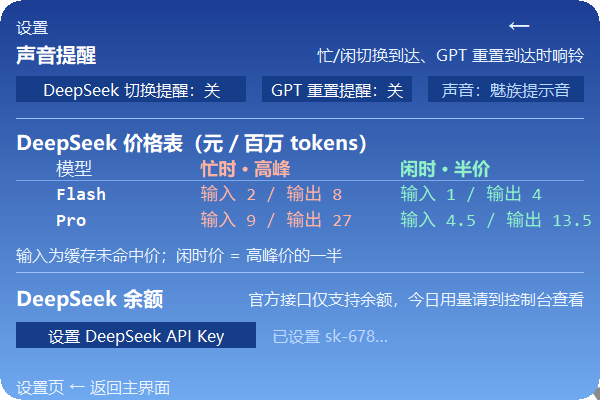
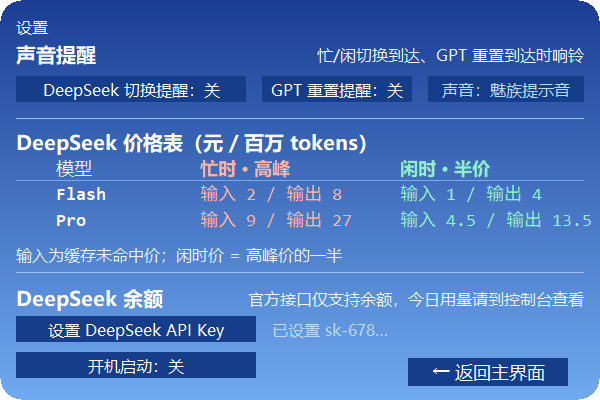
feat: autostart option, back button bottom-right, packaged exe launcher, smaller week-reset text

diff --git a/deepseek_chatgpt_timer.py b/deepseek_chatgpt_timer.py
@@ -57,7 +57,11 @@ try:
 except Exception:
     winsound = None
 
-APP_DIR = os.path.dirname(os.path.abspath(__file__))
+# 打包为 exe 时 __file__ 指向临时解压目录，资源目录应为 exe 所在目录
+if getattr(sys, "frozen", False):
+    APP_DIR = os.path.dirname(os.path.abspath(sys.executable))
+else:
+    APP_DIR = os.path.dirname(os.path.abspath(__file__))
 CONFIG_PATH = os.path.join(APP_DIR, "config.json")
 
 # ---------------- 界面参数（物理像素设计尺寸） ----------------
@@ -298,6 +302,52 @@ def fmt_week_until(td) -> str:
     return f"{d}天 {h:02d}:{m:02d}" if d > 0 else f"{h:02d}:{m:02d}"
 
 
+RUN_KEY = r"Software\Microsoft\Windows\CurrentVersion\Run"
+RUN_NAME = "发条AI时段小组件"
+
+
+def _autostart_command() -> str:
+    """开机启动命令行：exe 直接注册自身；源码运行注册 pythonw + 脚本。"""
+    if getattr(sys, "frozen", False):
+        return f'"{sys.executable}"'
+    exe = sys.executable
+    if exe.lower().endswith("python.exe"):   # 换 pythonw 避免开机弹控制台
+        w = os.path.join(os.path.dirname(exe), "pythonw.exe")
+        if os.path.exists(w):
+            exe = w
+    script = os.path.join(APP_DIR, "deepseek_chatgpt_timer.py")
+    return f'"{exe}" "{script}"'
+
+
+def _autostart_enabled() -> bool:
+    try:
+        import winreg
+        with winreg.OpenKey(winreg.HKEY_CURRENT_USER, RUN_KEY) as k:
+            winreg.QueryValueEx(k, RUN_NAME)
+            return True
+    except FileNotFoundError:
+        return False
+    except Exception:
+        return False
+
+
+def _set_autostart(enabled: bool):
+    try:
+        import winreg
+        with winreg.OpenKey(winreg.HKEY_CURRENT_USER, RUN_KEY, 0,
+                            winreg.KEY_SET_VALUE) as k:
+            if enabled:
+                winreg.SetValueEx(k, RUN_NAME, 0, winreg.REG_SZ,
+                                  _autostart_command())
+            else:
+                try:
+                    winreg.DeleteValue(k, RUN_NAME)
+                except FileNotFoundError:
+                    pass
+    except Exception:
+        pass
+
+
 def _activate_existing_instance() -> bool:
     """已有实例运行时：显示并置前其窗口，返回 True（新实例应退出）。"""
     try:
@@ -532,26 +582,27 @@ class Widget(tk.Tk):
         self.gpt_bar_fill = cv.create_rectangle(PAD, 250, PAD + 2, 258,
                                                 fill=ACC_C, outline="")
         # 同步按钮（时间 + 日期）+ 右侧一周重置信息（同右对齐到 R）
-        self.btn_sync = cv.create_rectangle(PAD, 266, PAD + 136, 288,
+        self.btn_sync = cv.create_rectangle(PAD, 288, PAD + 136, 310,
                                             fill=BTN_BG, outline="", tags="sync")
-        cv.create_text(PAD + 68, 277, text="同步重置时间", fill=FG_W,
+        cv.create_text(PAD + 68, 299, text="同步重置时间", fill=FG_W,
                        font=(FONT, 9), tags="sync")
         cv.tag_bind("sync", "<Button-1>", lambda e: self.sync_reset_time())
         cv.tag_bind("sync", "<Enter>", lambda e: cv.itemconfig(self.btn_sync, fill=BTN_HOV))
         cv.tag_bind("sync", "<Leave>", lambda e: cv.itemconfig(self.btn_sync, fill=BTN_BG))
-        self.btn_week = cv.create_rectangle(PAD + 144, 266, PAD + 294, 288,
+        self.btn_week = cv.create_rectangle(PAD + 144, 288, PAD + 294, 310,
                                             fill=BTN_BG, outline="", tags="week_sync")
-        cv.create_text(PAD + 219, 277, text="同步重置日期", fill=FG_W,
+        cv.create_text(PAD + 219, 299, text="同步重置日期", fill=FG_W,
                        font=(FONT, 9), tags="week_sync")
         cv.tag_bind("week_sync", "<Button-1>", lambda e: self.sync_reset_date())
         cv.tag_bind("week_sync", "<Enter>",
                     lambda e: cv.itemconfig(self.btn_week, fill=BTN_HOV))
         cv.tag_bind("week_sync", "<Leave>",
                     lambda e: cv.itemconfig(self.btn_week, fill=BTN_BG))
-        self.gpt_week_info = cv.create_text(R, 277, text="", anchor="e",
-                                            fill=FG_W, font=(MONO, 12, "bold"))
+        # 一周重置信息：字号小于“剩”，宽度与上面“剩 xx:xx:xx”接近
+        self.gpt_week_info = cv.create_text(R, 299, text="", anchor="e",
+                                            fill=FG_W, font=(MONO, 10, "bold"))
         # 按钮提示语（按钮下一行）
-        cv.create_text(PAD, 302, text="提示：同步重置时间后自动按 5 小时续算；同步重置日期后自动按 7 天续算",
+        cv.create_text(PAD, 326, text="提示：同步重置时间后自动按 5 小时续算；同步重置日期后自动按 7 天续算",
                        anchor="w", fill=FG_DIM, font=(FONT, 8))
 
         # 底部：提示 + 右下角设置（图标与文字同一行、整体右对齐不出界）
@@ -587,16 +638,9 @@ class Widget(tk.Tk):
         cv.create_image(0, 0, image=self._bg_img, anchor="nw")
         R = DESIGN_W - PAD
 
-        # 标题栏：左"设置"，右上 ← 后退返回主界面
+        # 标题栏：左"设置"
         cv.create_text(PAD, 26, text="设置", anchor="w",
                        fill=FG_DIM, font=(FONT, 8))
-        cv.create_text(R - 40, 26, text="  ←  ", anchor="e", fill=FG_DIM,
-                       font=(FONT, 11), tags="close_set")
-        cv.tag_bind("close_set", "<Button-1>", lambda e: self._close_settings())
-        cv.tag_bind("close_set", "<Enter>",
-                    lambda e: cv.itemconfig("close_set", fill=FG_W))
-        cv.tag_bind("close_set", "<Leave>",
-                    lambda e: cv.itemconfig("close_set", fill=FG_DIM))
 
         # ---- 1) 声音提醒 ----
         cv.create_text(PAD, 54, text="声音提醒", anchor="w",
@@ -643,13 +687,25 @@ class Widget(tk.Tk):
                        fill=FG_W, font=(FONT, 10, "bold"))
         cv.create_text(R, 298, text="官方接口仅支持余额，今日用量请到控制台查看",
                        anchor="e", fill=FG_DIM, font=(FONT, 8))
-        self.set_dskey = self._mk_btn(cv, PAD, 322, 240, "set_dskey", "btn")
-        self.dskey_state = cv.create_text(PAD + 256, 335, text="", anchor="w",
+        self.set_dskey = self._mk_btn(cv, PAD, 316, 240, "set_dskey", "btn")
+        self.dskey_state = cv.create_text(PAD + 256, 329, text="", anchor="w",
                                           fill=ACC_C, font=(FONT, 8))
 
-        # ---- 底部 ----
-        cv.create_text(PAD, 386, text="设置页 ← 返回主界面",
-                       anchor="w", fill=FG_DIM, font=(FONT, 8))
+        # ---- 4) 开机启动 ----
+        self.set_autostart_btn = self._mk_btn(cv, PAD, 352, 240,
+                                              "set_autostart", "btn")
+
+        # ---- 右下角：返回主界面按钮 ----
+        self.btn_back = cv.create_rectangle(R - 176, 358, R - 16, 386,
+                                            fill=BTN_BG, outline="",
+                                            tags="back_btn")
+        cv.create_text(R - 96, 372, text="← 返回主界面", fill=FG_W,
+                       font=(FONT, 9), tags="back_btn")
+        cv.tag_bind("back_btn", "<Button-1>", lambda e: self._close_settings())
+        cv.tag_bind("back_btn", "<Enter>",
+                    lambda e: cv.itemconfig(self.btn_back, fill=BTN_HOV))
+        cv.tag_bind("back_btn", "<Leave>",
+                    lambda e: cv.itemconfig(self.btn_back, fill=BTN_BG))
 
         self._paint_small_btns()
 
@@ -688,6 +744,10 @@ class Widget(tk.Tk):
             play_sound(nxt)
         elif tag == "set_dskey":
             self.set_deepseek_api_key()
+        elif tag == "set_autostart":
+            on = not _autostart_enabled()
+            _set_autostart(on)
+            self.save_cfg()
         self._paint_small_btns()
 
     def _paint_small_btns(self):
@@ -706,6 +766,9 @@ class Widget(tk.Tk):
             "set_snd_kind": ("声音：" + SOUND_LABELS.get(snd_kind, "魅族提示音"),
                              ACC_C, BTN_BG),
             "set_dskey": ("设置 DeepSeek API Key", FG_W, BTN_BG),
+            "set_autostart": ("开机启动：" + ("开" if _autostart_enabled() else "关"),
+                              "#7dffc0" if _autostart_enabled() else FG_W,
+                              BTN_ON if _autostart_enabled() else BTN_BG),
         }
         for tag, (text, fg, bg) in labels.items():
             r, t = self._set_btns.get(tag, (None, None))

diff --git a/README.md b/README.md
@@ -9,10 +9,14 @@
 
 ## 快速开始
 
-1. 双击 **`启动小组件.bat`**（静默启动，无控制台窗口；首次运行自动生成 `config.json`，或复制 `config.example.json` 为 `config.json`）。
+1. **双击 `发条AI时段小组件.exe`**（推荐，无控制台窗口、无需安装 Python），或双击 **`启动小组件.bat`**（自动优先启动 exe，无 exe 时用源码运行）。
 2. 小组件出现在屏幕右下角，置顶显示，可直接拖到任何位置。
-3. 主界面右下角齿轮 → **设置页**（价格表、声音提醒开关、DeepSeek API Key 余额配置）。
+3. 主界面右下角齿轮 → **设置页**（价格表、声音提醒开关、**开机启动**、DeepSeek API Key 余额配置）。
 4. 点右键呼出菜单：打开设置 / 同步重置时间 / 改周期 / 节假日覆盖 / 置顶开关 / 规则说明 / 退出。
+
+> **开机启动**：设置页打开「开机启动：开」后，登录 Windows 时自动启动（写入当前用户注册表 Run 项，可随时关闭）。
+>
+> **从源码运行**：安装 Python 3.9+（勾选 Add to PATH）后执行 `pythonw deepseek_chatgpt_timer.py`；重新打包 exe 用 `pyinstaller --onefile --noconsole --name "发条AI时段小组件" deepseek_chatgpt_timer.py`。
 
 > **隐私说明**：`config.json` 保存了你的 DeepSeek API Key、余额与重置锚点等私有数据，已被 `.gitignore` 排除，**不会**被提交到 GitHub。仓库中的 `config.example.json` 是空模板。
 
